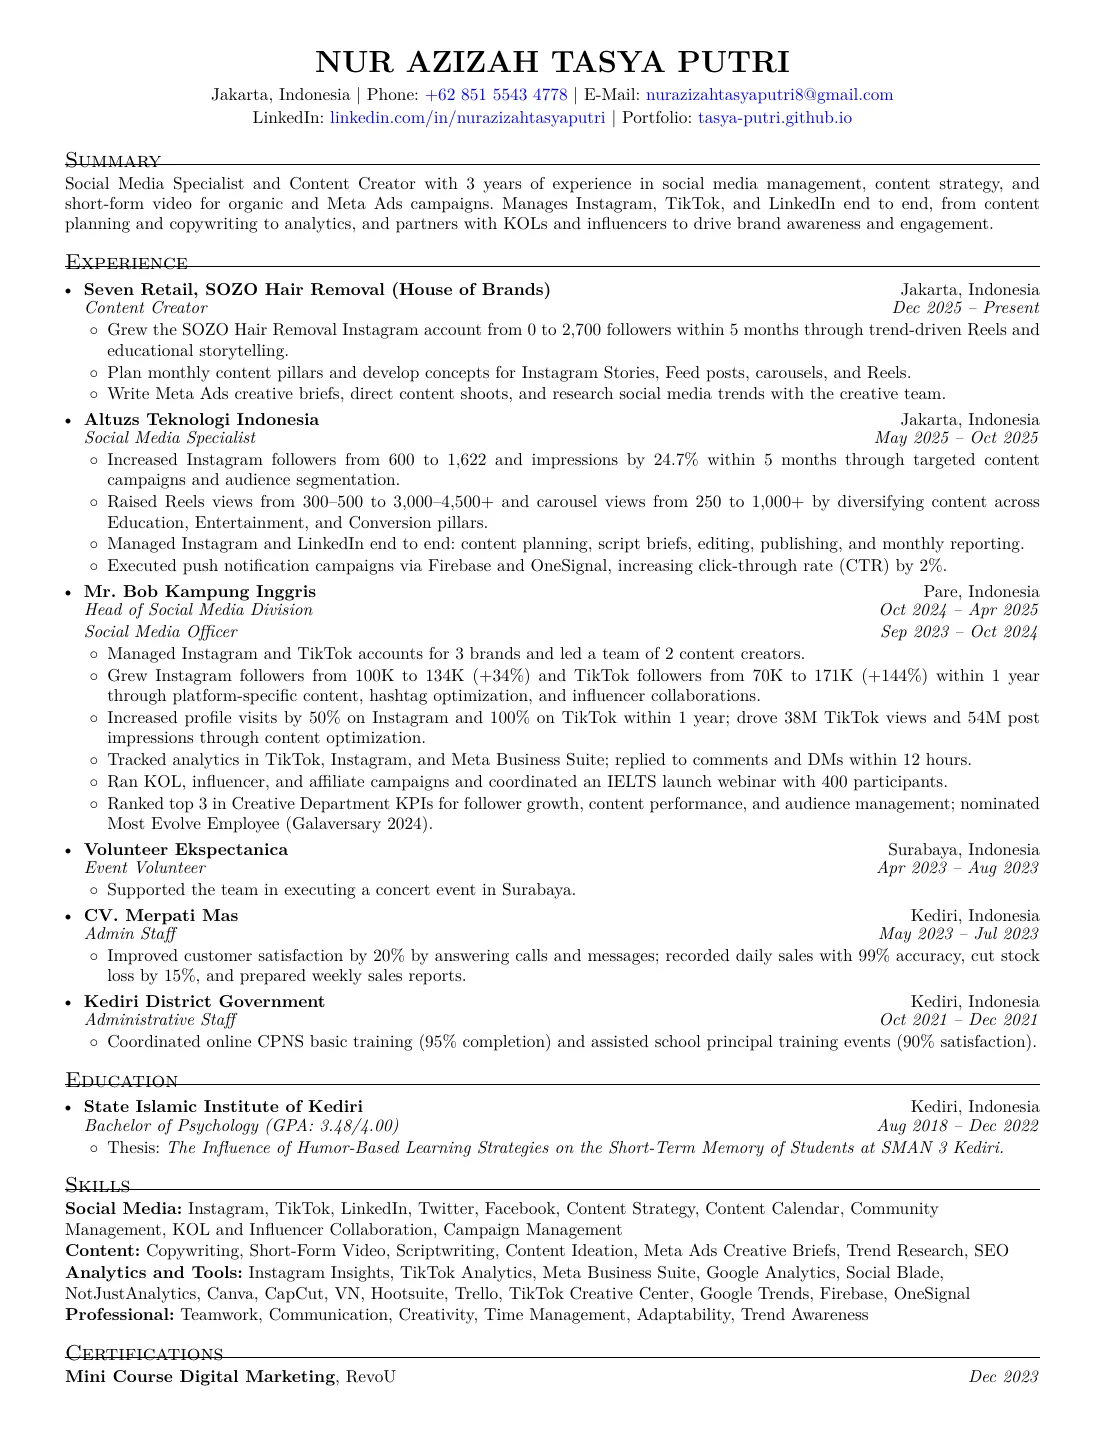
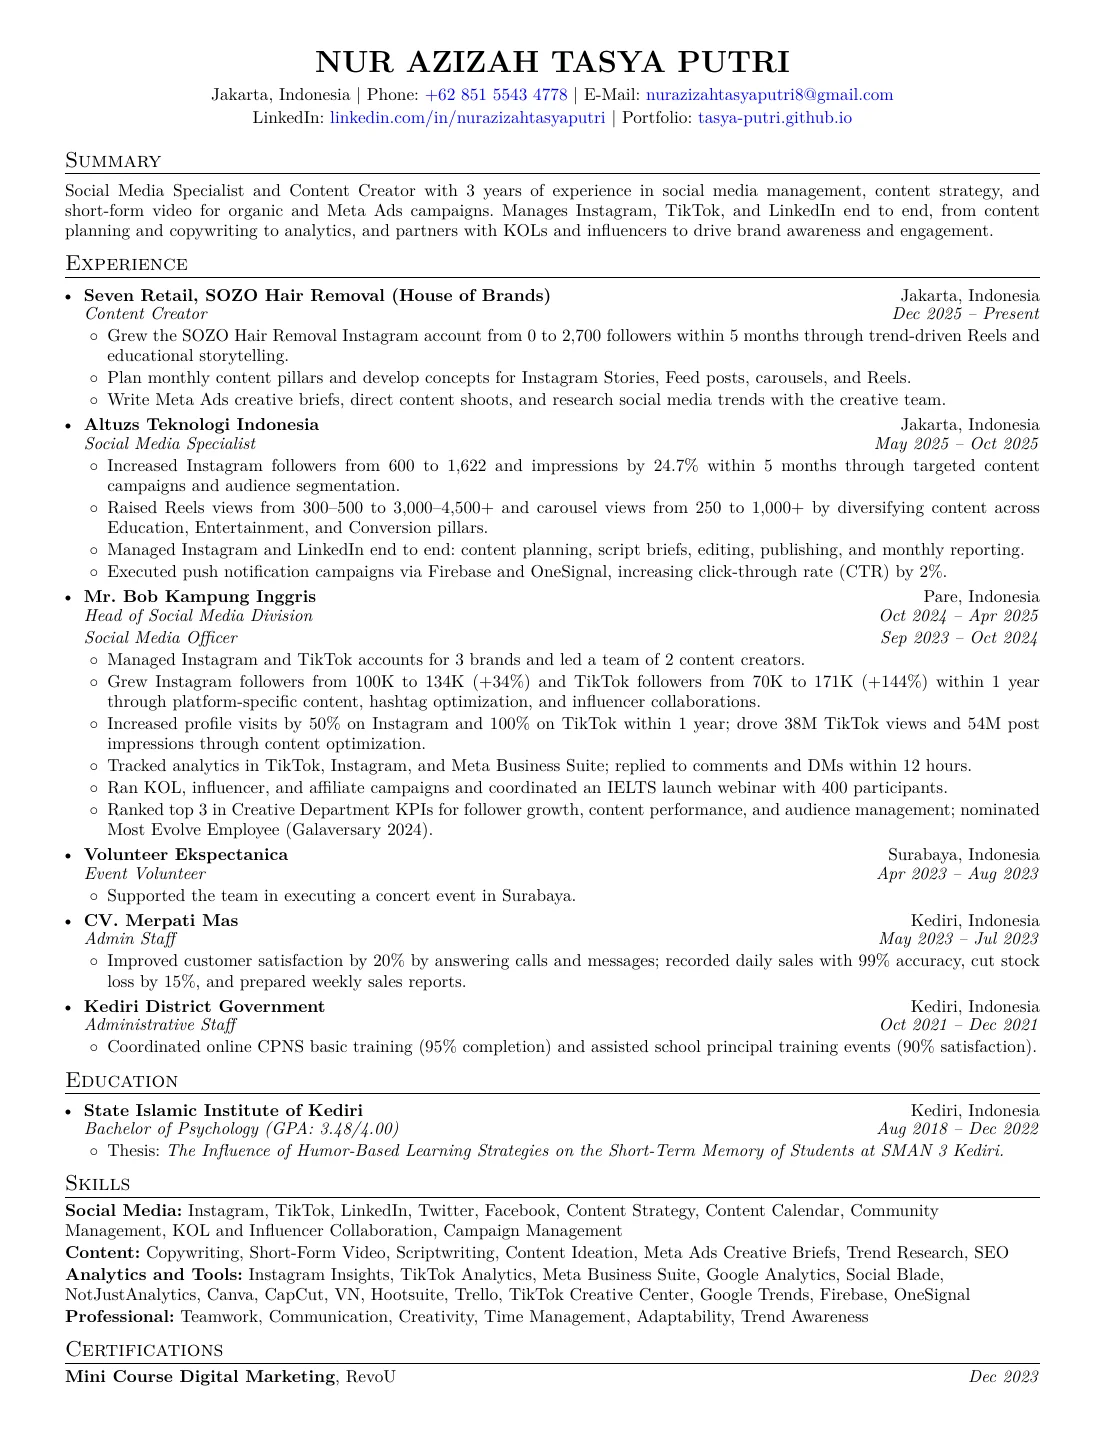
Fix resume section rule spacing so rules no longer touch heading text

Changed region(s): [[0.0615, 0.1231, 0.9538, 0.7385], [0.0615, 0.7692, 0.9538, 0.9538]]

diff --git a/source/resume.tex b/source/resume.tex
@@ -19,8 +19,8 @@
 \setlength{\parindent}{0pt}
 \setlength{\parskip}{0pt}
 \raggedbottom\hyphenpenalty=10000\exhyphenpenalty=10000\emergencystretch=3em
-\titleformat{\section}{\scshape\large}{}{0em}{}[\vspace{-6pt}\titlerule]
-\titlespacing*{\section}{0pt}{8pt}{7pt}
+\titleformat{\section}{\scshape\large}{}{0em}{}[\vspace{-1pt}\titlerule]
+\titlespacing*{\section}{0pt}{5pt}{4pt}
 \setlist[itemize,1]{label=\textbullet,leftmargin=10.5pt,itemsep=0pt,topsep=0pt,parsep=0pt}
 \setlist[itemize,2]{label=$\circ$,leftmargin=13pt,itemsep=1pt,topsep=1pt,parsep=0pt}
 \newcommand{\entry}[4]{\vspace{2pt}\item \textbf{#1}\hfill #2\\[-1pt] \textit{#3}\hfill \textit{#4}}
@@ -33,6 +33,7 @@ LinkedIn: \href{https://linkedin.com/in/nurazizahtasyaputri}{linkedin.com/in/nur
 \end{center}
 
 \section{Summary}
+\vspace{2pt}
 Social Media Specialist and Content Creator with 3 years of experience in social media management, content strategy, and short-form video for organic and Meta Ads campaigns. Manages Instagram, TikTok, and LinkedIn end to end, from content planning and copywriting to analytics, and partners with KOLs and influencers to drive brand awareness and engagement.
 
 \section{Experience}
